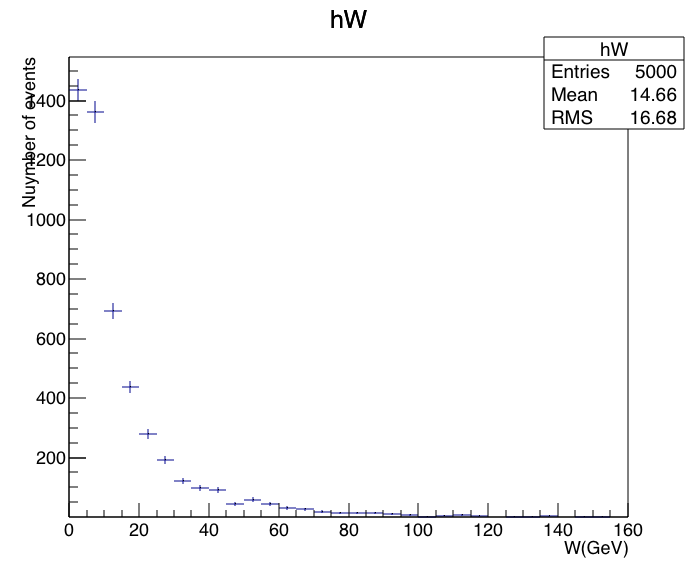
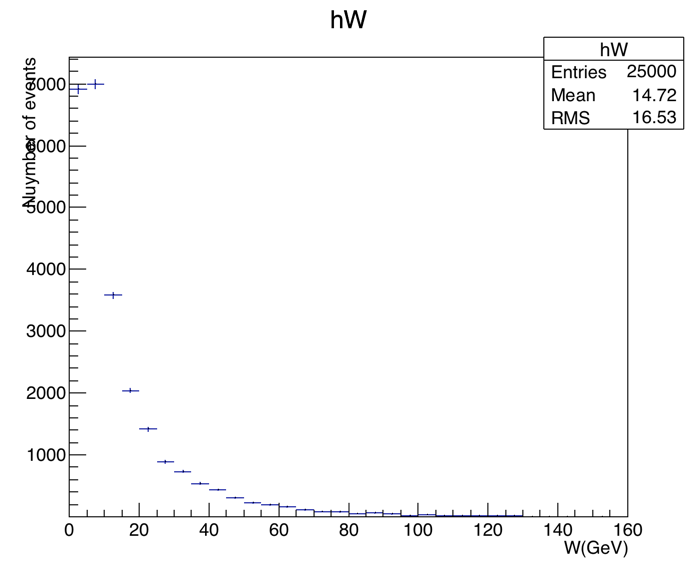
Logbook, 25000 eventi e marker

diff --git a/pythia/pythia6_gammagamma_hadrons.C b/pythia/pythia6_gammagamma_hadrons.C
@@ -25,7 +25,7 @@
 //____________________________________________________________________
 //
 
-void pythia6_gammagamma_hadrons( int Nevts = 5000, double sqrts = 160., int MSTP14_val=10) 
+void pythia6_gammagamma_hadrons( int Nevts = 25000, double sqrts = 160., int MSTP14_val=10) 
 {
 
   // Instance of the Pythia event generator
@@ -361,7 +361,6 @@ void pythia6_gammagamma_hadrons( int Nevts = 5000, double sqrts = 160., int MSTP
     TCanvas *cinvp_id = new TCanvas(title,title,700,600);
     cinvp_id->cd();
     cinvp_id->SetLogy();
-    cinvp_id->SetLogx();
     h_id_part->Draw();
     cinvp_id->SaveAs("_png/histo_particle_id.png");
 
@@ -389,7 +388,7 @@ void pythia6_gammagamma_hadrons( int Nevts = 5000, double sqrts = 160., int MSTP
   f_fit->SetParameter(1, C);
   f_fit->SetParameter(2, alpha);
 
-  hdsigmadpT->Fit(f_fit,"","",0.4,4); //////!!!!!!!!!!!!!!Warning! Fit is bounded to 4 GeV
+  hdsigmadpT->Fit(f_fit,"","",0.6,5); //////!!!!!!!!!!!!!!Warning! Fit is bounded to 4 GeV
 
   Double_t fit_chi2 = f_fit->GetChisquare();
   Int_t    fit_ndof = f_fit->GetNDF();

diff --git a/pythia/pythia6_gammagamma_hadrons.h b/pythia/pythia6_gammagamma_hadrons.h
@@ -229,6 +229,8 @@ void book_histos()
   h_id_part = new TH1F(title,title,5000,0,5000);
   h_id_part->SetXTitle("Particle id");
   h_id_part->SetYTitle("Number particle detected");
+  h_id_part->SetMarkerSize(1.4);
+  h_id_part->SetMarkerStyle(33);
   h_id_part->Sumw2();
 
   //   hdsigmadetaTruth = new TH1F("hdsigmadetaTruth","hdsigmadetaTruth",2000,-10,10);
